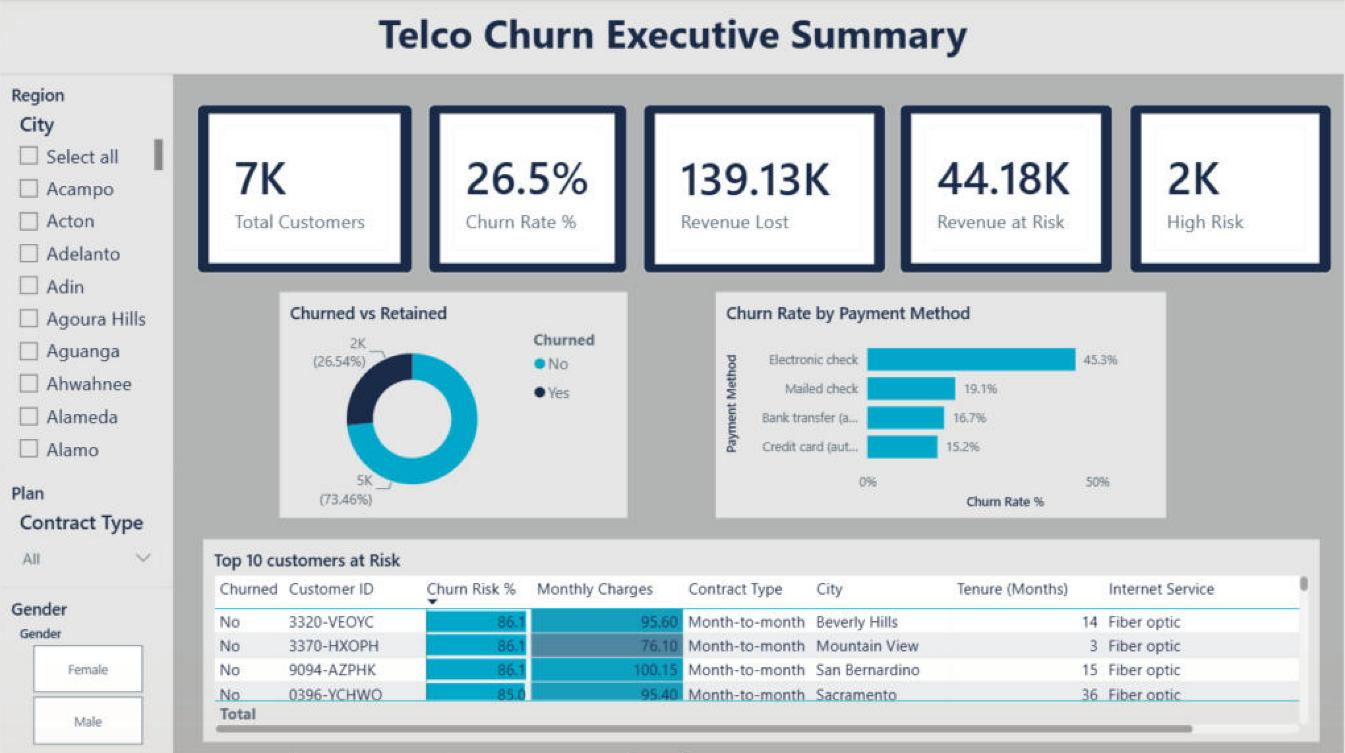
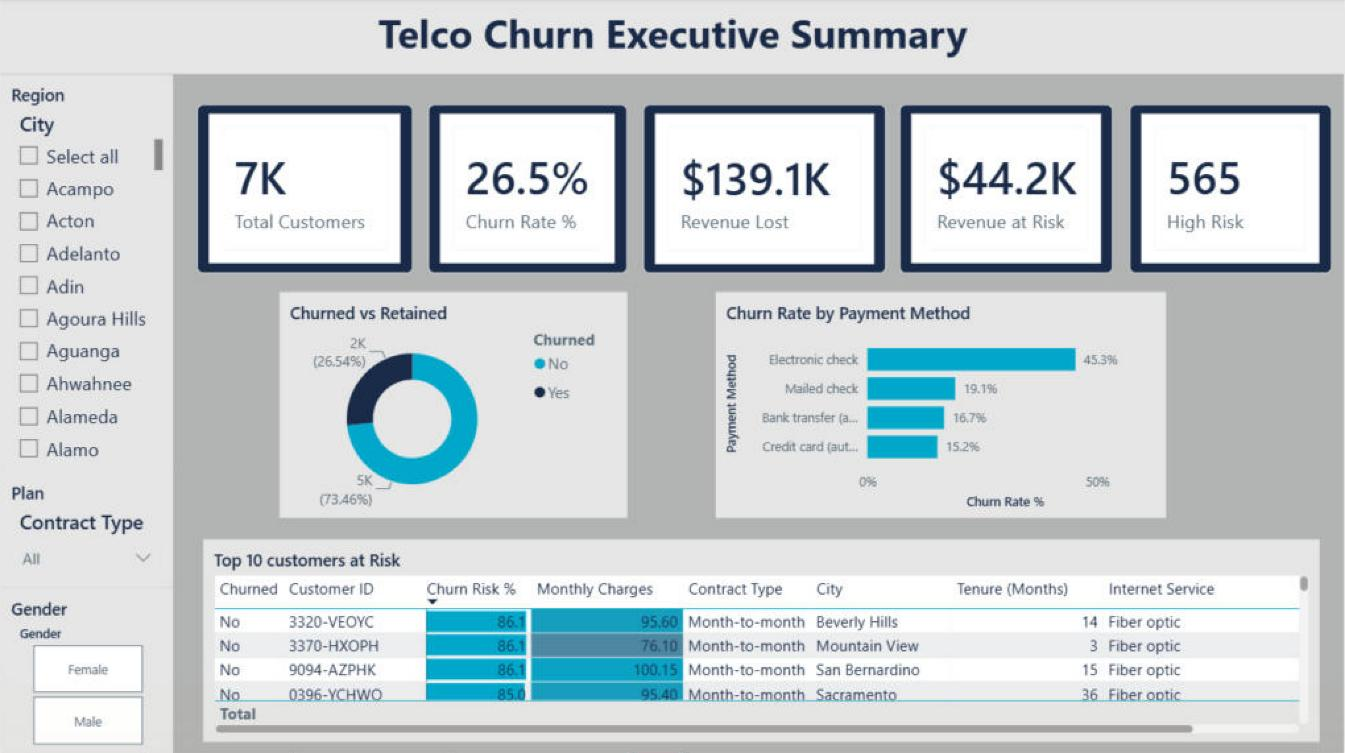
Align High Risk KPI with active customers and format revenue as currency
High Risk Customers now counts only customers who have not churned (565),
matching Revenue at Risk and the Churn Analysis page. Revenue KPIs use
currency formatting. Executive Summary screenshot refreshed.

Claude-Session: https://claude.ai/code/session_01KCEwiPsdB2BsmXCcvKQLgA

Changed region(s): [[0.687, 0.2138, 0.8119, 0.2749], [0.4996, 0.2138, 0.5933, 0.2749], [0.8431, 0.2138, 0.9368, 0.2749]]

diff --git a/README.md b/README.md
@@ -18,7 +18,7 @@ Full methodology and results: [PROJECT_RESEARCH_REPORT.md](PROJECT_RESEARCH_REPO
 
 ### Power BI dashboard
 
-**Executive Summary:** headline KPIs (customers, churn rate, revenue lost to churn, revenue at risk from current high-risk customers), churn rate by payment method (electronic check customers churn at 45.3%), and the ten active customers with the highest predicted churn risk.
+**Executive Summary:** headline KPIs (customers, churn rate, $139.1K monthly revenue lost to churn, $44.2K at risk from 565 current high-risk customers), churn rate by payment method (electronic check customers churn at 45.3%), and the ten active customers with the highest predicted churn risk.
 
 ![Executive Summary dashboard](powerbi/screenshots/01_executive_summary.png)
 
